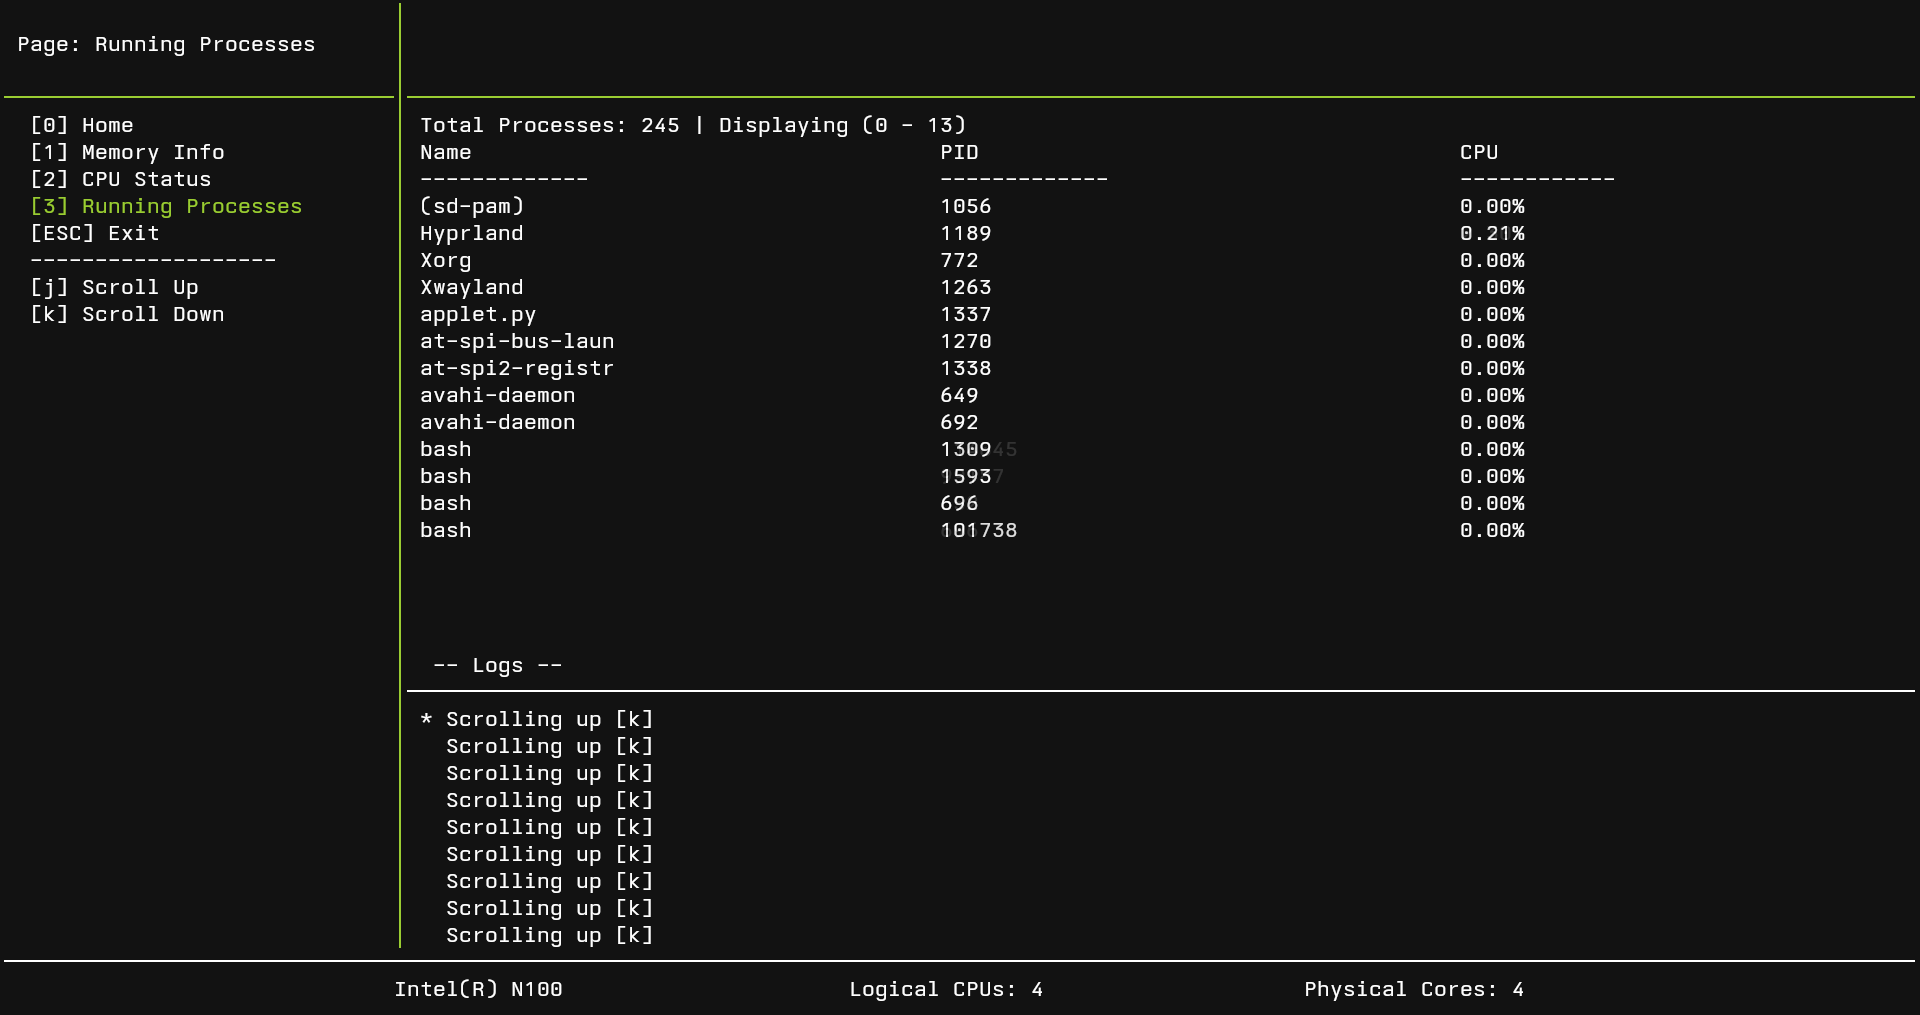
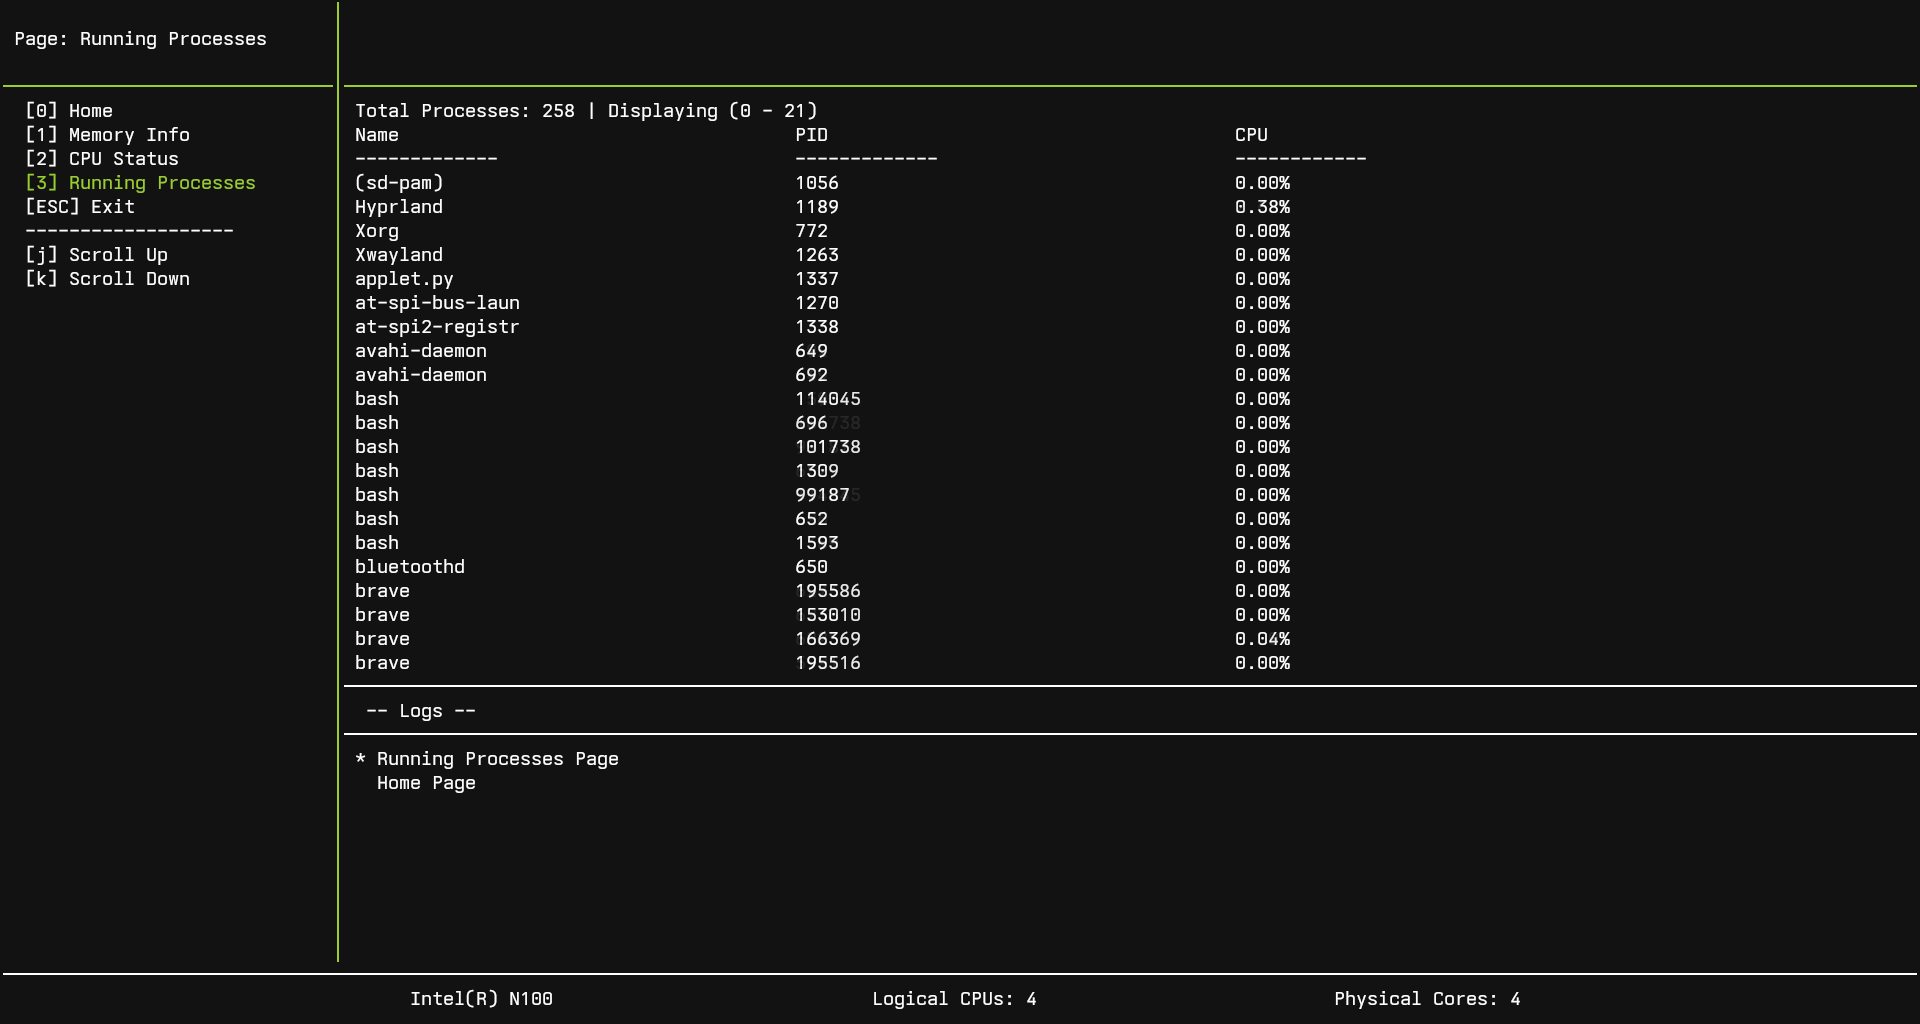
fix: displaying the processes now uses all the empty space. also when window resize triggers, will ensure to fit the list accordingly.

diff --git a/scenes/processes/processes.go b/scenes/processes/processes.go
@@ -17,10 +17,13 @@ import (
 	"github.com/omar0ali/sysmontui/screentui/window"
 )
 
-var (
-	start = 0
-	end   = 0
+const (
+	PADDING_FOOTER = 22
 )
+
+type scrollWindow struct {
+	start, end, max int
+}
 
 type process struct {
 	Name       string
@@ -32,12 +35,15 @@ type Processes struct {
 	mu            sync.RWMutex
 	LogsAddToList controls.LogsAddToList
 	Processes     []*process
+	scrollWindow  scrollWindow
+	getScreenSize func() (int, int)
 }
 
 func Init(logsFunc controls.LogsAddToList, ctx context.Context, op options.Options) *Processes {
 	processes := &Processes{
 		LogsAddToList: logsFunc,
 		Processes:     []*process{},
+		scrollWindow:  scrollWindow{},
 	}
 
 	go func(ctx context.Context, processes *Processes, op options.Options) {
@@ -128,10 +134,23 @@ func Init(logsFunc controls.LogsAddToList, ctx context.Context, op options.Optio
 }
 
 func (p *Processes) Update(d float64) {}
+
 func (p *Processes) Render(s interfaces.ScreenControl) {
-	if end == 0 {
-		_, h := s.Size()
-		end = (h / 2) - 6 // limit
+	// this will be used to get the size
+	// when screen is resize triggered.
+	if p.getScreenSize == nil {
+		p.getScreenSize = s.Size
+	}
+
+	// important: used for the scrollable area where the processes are displayed
+	// must set both (end, max)
+
+	// check max must be set when
+	if p.scrollWindow.max == 0 {
+		_, h := p.getScreenSize()
+		p.scrollWindow.max = h - PADDING_FOOTER
+		// update end
+		p.scrollWindow.end = p.scrollWindow.max
 	}
 
 	s.Color(color.White)
@@ -142,7 +161,9 @@ func (p *Processes) Render(s interfaces.ScreenControl) {
 	startYPos := 4
 	window.Text(s,
 		screentui.P(float64(startXPos), float64(startYPos)),
-		fmt.Sprintf("Total Processes: %d | Displaying (%d - %d)", len(p.Processes), start, end),
+		fmt.Sprintf("Total Processes: %d | Displaying (%d - %d)", len(p.Processes),
+			p.scrollWindow.start, p.scrollWindow.end,
+		),
 	)
 
 	window.ListOfTextsWithPadding(s, screentui.P(float64(startXPos), float64(startYPos+1)), paddingBetweenText,
@@ -154,17 +175,19 @@ func (p *Processes) Render(s interfaces.ScreenControl) {
 	)
 
 	if len(p.Processes) == 0 {
-		window.Text(s, screentui.P(float64(startXPos), float64(startYPos+3)), "Loading...")
+		window.Text(s,
+			screentui.P(float64(startXPos), float64(startYPos+3)),
+			"Loading...",
+		)
 		return
 	}
 
 	// sort processes by name
-
 	sort.Slice(p.Processes, func(i, j int) bool {
 		return p.Processes[i].Name < p.Processes[j].Name
 	})
 
-	for y, proc := range p.Processes[start:end] {
+	for y, proc := range p.Processes[p.scrollWindow.start:p.scrollWindow.end] {
 		window.ListOfTextsWithPadding(s, screentui.P(float64(startXPos), float64(startYPos+y+3)), paddingBetweenText, []string{
 			proc.Name,
 			fmt.Sprintf("%d", proc.PID),
@@ -173,18 +196,34 @@ func (p *Processes) Render(s interfaces.ScreenControl) {
 	}
 }
 
-func (p *Processes) Events(ev *tcell.EventKey) {
-	if ev.Str() == "j" {
-		if end < len(p.Processes) {
-			start++
-			end++
+func (p *Processes) Events(ev tcell.Event) {
+	switch ev := ev.(type) {
+	case *tcell.EventResize: // when screen resized
+		_, h := p.getScreenSize()
+
+		// get the latest hight of the screen -
+		// used for the scrollable area in processes page
+		p.scrollWindow.max = h - PADDING_FOOTER
+		if p.scrollWindow.end == 0 {
+			p.scrollWindow.end = p.scrollWindow.max
 		}
-		p.LogsAddToList("Scrolling down\t[j]")
-	} else if ev.Str() == "k" {
-		if start > 0 {
-			start--
-			end--
+
+		// update end
+		p.scrollWindow.end = p.scrollWindow.max
+
+	case *tcell.EventKey:
+		if ev.Str() == "j" {
+			if p.scrollWindow.end < len(p.Processes) {
+				p.scrollWindow.start++
+				p.scrollWindow.end++
+			}
+			p.LogsAddToList("Scrolling down\t[j]")
+		} else if ev.Str() == "k" {
+			if p.scrollWindow.start > 0 {
+				p.scrollWindow.start--
+				p.scrollWindow.end--
+			}
+			p.LogsAddToList("Scrolling up\t[k]")
 		}
-		p.LogsAddToList("Scrolling up\t[k]")
 	}
 }

diff --git a/scenes/perm/controls/controls.go b/scenes/perm/controls/controls.go
@@ -79,6 +79,7 @@ func (c *Controls) Render(s interfaces.ScreenControl) {
 	}
 
 	// footer line for logs
+	window.LineHorizontalWithStartAndEnd(s, 31, w, h-15, tcell.RuneHLine) // for ui
 	window.Text(s, screentui.P(33, float64(h)-14), "-- Logs --")
 	window.LineHorizontalWithStartAndEnd(s, 31, w, h-13, tcell.RuneHLine) // for ui
 
@@ -90,30 +91,33 @@ func (c *Controls) Render(s interfaces.ScreenControl) {
 	s.SetContent(32, h-12, '*')
 }
 
-func (c *Controls) Events(ev *tcell.EventKey) {
-	s := ev.Str()
-	if len(s) == 1 && s[0] >= '0' && s[0] <= '4' {
-		c.MenuResetList()
+func (c *Controls) Events(ev tcell.Event) {
+	switch ev := ev.(type) {
+	case *tcell.EventKey:
+		s := ev.Str()
+		if len(s) == 1 && s[0] >= '0' && s[0] <= '4' {
+			c.MenuResetList()
 
-		page := int(s[0] - '0')
-		switch page {
-		case 0:
-			c.sceneControl.SetScene("0")
-			c.LogsAddToList("Home Page")
-		case 1:
-			c.MenuAddToList("-------------------")
-			c.MenuAddToList("[T] Toggle (MB, GB)")
-			c.sceneControl.SetScene("1")
-			c.LogsAddToList("Memory Page")
-		case 2:
-			c.sceneControl.SetScene("2")
-			c.LogsAddToList("CPU Status Page")
-		case 3:
-			c.sceneControl.SetScene("3")
-			c.LogsAddToList("Running Processes Page")
-			c.MenuAddToList("-------------------")
-			c.MenuAddToList("[j] Scroll Up")
-			c.MenuAddToList("[k] Scroll Down")
+			page := int(s[0] - '0')
+			switch page {
+			case 0:
+				c.sceneControl.SetScene("0")
+				c.LogsAddToList("Home Page")
+			case 1:
+				c.MenuAddToList("-------------------")
+				c.MenuAddToList("[T] Toggle (MB, GB)")
+				c.sceneControl.SetScene("1")
+				c.LogsAddToList("Memory Page")
+			case 2:
+				c.sceneControl.SetScene("2")
+				c.LogsAddToList("CPU Status Page")
+			case 3:
+				c.sceneControl.SetScene("3")
+				c.LogsAddToList("Running Processes Page")
+				c.MenuAddToList("-------------------")
+				c.MenuAddToList("[j] Scroll Up")
+				c.MenuAddToList("[k] Scroll Down")
+			}
 		}
 	}
 }

diff --git a/screentui/window/screen.go b/screentui/window/screen.go
@@ -35,16 +35,16 @@ func New(so *ScreenOption) (*screen, error) {
 	}, nil
 }
 
-func (s *screen) keyEvents(events func(ev *tcell.EventKey)) {
+func (s *screen) keyEvents(events func(ev tcell.Event)) {
 	for {
 		ev := <-s.screen.EventQ()
+
 		switch ev.(type) {
 		case *tcell.EventResize:
 			s.screen.Sync()
 		}
-		if ev, ok := ev.(*tcell.EventKey); ok {
-			events(ev)
-		}
+
+		events(ev)
 	}
 }
 
@@ -82,7 +82,7 @@ func (s *screen) refreshScreen(update func(delta float64), render func()) {
 func (s *screen) run(
 	update func(elapsed float64),
 	render func(),
-	events func(ev *tcell.EventKey),
+	events func(ev tcell.Event),
 ) {
 	go s.keyEvents(events)          // read input on a go routine
 	s.refreshScreen(update, render) // show screen and refresh
@@ -105,10 +105,13 @@ func (s *screen) Run(entity *entity.Entity, whenExit context.CancelFunc) {
 		for _, j := range entity.GetPermEntities() {
 			j.Render(s)
 		}
-	}, func(e *tcell.EventKey) {
+	}, func(e tcell.Event) {
 		// current
-		if e.Key() == tcell.KeyCtrlQ || e.Key() == tcell.KeyESC {
-			s.Exit()
+		switch e := e.(type) {
+		case *tcell.EventKey:
+			if e.Key() == tcell.KeyCtrlQ || e.Key() == tcell.KeyESC {
+				s.Exit()
+			}
 		}
 
 		// from entities

diff --git a/scenes/meminfo/meminfo.go b/scenes/meminfo/meminfo.go
@@ -109,16 +109,19 @@ func (m *MemInfo) Render(s interfaces.ScreenControl) {
 	})
 }
 
-func (m *MemInfo) Events(ev *tcell.EventKey) {
-	if ev.Str() == "T" {
-		if m.unit == pkg.MB {
-			m.unit = pkg.GB
-			m.unitStr = "GB"
-			m.LogsAddToList("Toggle to GB")
-		} else {
-			m.unit = pkg.MB
-			m.unitStr = "MB"
-			m.LogsAddToList("Toggle to MB")
+func (m *MemInfo) Events(ev tcell.Event) {
+	switch e := ev.(type) {
+	case *tcell.EventKey:
+		if e.Str() == "T" {
+			if m.unit == pkg.MB {
+				m.unit = pkg.GB
+				m.unitStr = "GB"
+				m.LogsAddToList("Toggle to GB")
+			} else {
+				m.unit = pkg.MB
+				m.unitStr = "MB"
+				m.LogsAddToList("Toggle to MB")
+			}
 		}
 	}
 }

diff --git a/scenes/home/home.go b/scenes/home/home.go
@@ -21,4 +21,4 @@ func (h *Home) Render(s interfaces.ScreenControl) {
 	startXPos := 32
 	window.Text(s, screentui.P(float64(startXPos), 4), "Sysmon TUI Application.")
 }
-func (h *Home) Events(ev *tcell.EventKey) {}
+func (h *Home) Events(ev tcell.Event) {}

diff --git a/screentui/interfaces/entity.go b/screentui/interfaces/entity.go
@@ -7,7 +7,7 @@ import (
 type EntityActions interface {
 	Update(d float64)
 	Render(ScreenControl)
-	Events(ev *tcell.EventKey)
+	Events(ev tcell.Event)
 }
 
 type SceneControl interface {

diff --git a/scenes/cpustat/cpustat.go b/scenes/cpustat/cpustat.go
@@ -84,4 +84,4 @@ func (c *CpuStat) Render(s interfaces.ScreenControl) {
 		})
 	}
 }
-func (c *CpuStat) Events(ev *tcell.EventKey) {}
+func (c *CpuStat) Events(ev tcell.Event) {}

diff --git a/scenes/perm/cpuinfo/cpuinfo.go b/scenes/perm/cpuinfo/cpuinfo.go
@@ -48,4 +48,4 @@ func (c *CpuInfo) Render(s interfaces.ScreenControl) {
 	}
 }
 
-func (c *CpuInfo) Events(ev *tcell.EventKey) {}
+func (c *CpuInfo) Events(ev tcell.Event) {}
